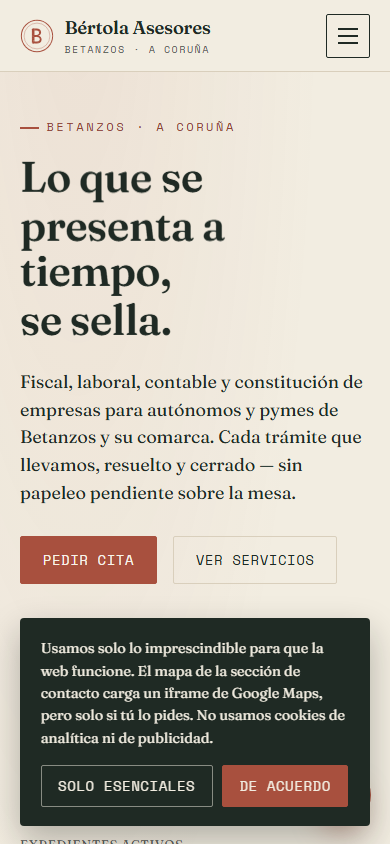
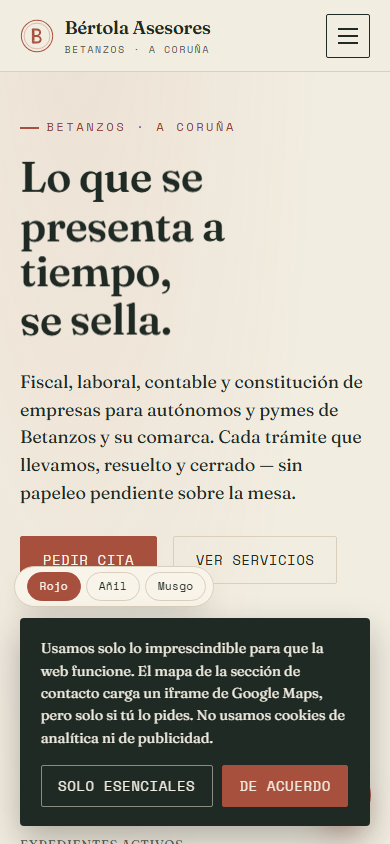
Control de paleta (demostración): tres colores en vivo mientras el cliente decide
Añade el mando estándar de PLIEGO §5 a esta plantilla: una píldora
flotante (Rojo/Añil/Musgo) que cambia --rojo/--rojo-texto/--rojo-oscuro
en vivo, sin recargar, con persistencia en localStorage y sin salto de
color al recargar. Nace de que un cliente real (Dourado & Fernández)
rechazó el verde de su sitio en una reunión; aquí, sin cliente real, se
suma igualmente para que cualquier futuro cliente pueda probar colores
delante de la pantalla.

Añil y Musgo se calibraron por luminancia relativa (fórmula sRGB), no a
ojo: 4.63-4.64:1 sobre --papel para el color de relleno (igual que el
rojo real, 4.63:1) y 5.88-5.91:1 sobre --papel para la variante de texto
(igual que el rojo real, 5.90:1). La píldora usa un --cookie-h nuevo
para no solapar el aviso de cookies mientras está abierto (no existía
ese mecanismo en esta plantilla; se tomó del ya verificado en
Dourado & Fernández).

Verificado con Playwright: 3 aserciones nuevas en scripts/verify.js
(no solapa con el aviso de cookies, un clic cambia de verdad el color
computado y persiste en localStorage, la paleta guardada se aplica
antes del primer pintado al recargar) más inspección visual manual en
escritorio y móvil con las tres paletas. De paso se detectó y corrigió
un cuello de botella no relacionado en el propio entorno de pruebas
(dos servidores http.server fantasma compartiendo el puerto 8994,
sirviendo una copia vieja del sitio), no un fallo de la plantilla.
[…]

diff --git a/js/main.js b/js/main.js
@@ -28,6 +28,15 @@
     var soloBtn = document.getElementById('cookie-config');
     if (!banner) return;
     var CLAVE = 'bertola-cookies';
+
+    /* mientras el aviso está abierto, aparta el mando de paleta hacia
+       arriba lo que mida el aviso, para que no quede tapado por él
+       (--cookie-h, ver css/style.css y el control de paleta más abajo) */
+    function ajustarOffsetCookie() {
+      var alto = banner.hidden ? 0 : banner.offsetHeight + 14;
+      html.style.setProperty('--cookie-h', alto + 'px');
+    }
+
     try {
       if (!localStorage.getItem(CLAVE)) {
         banner.hidden = false;
@@ -35,12 +44,51 @@
     } catch (e) {
       banner.hidden = false;
     }
+    requestAnimationFrame(ajustarOffsetCookie);
+    window.addEventListener('resize', ajustarOffsetCookie);
+
     function cerrar(valor) {
       banner.hidden = true;
+      ajustarOffsetCookie();
       try { localStorage.setItem(CLAVE, valor); } catch (e) {}
     }
     if (okBtn) okBtn.addEventListener('click', function () { cerrar('aceptado'); });
     if (soloBtn) soloBtn.addEventListener('click', function () { cerrar('solo-esenciales'); });
+  })();
+
+  /* ---------------------------------------------------------------------
+     Control de paleta (demostración). NO ES PARTE DEL SITIO: es un mando
+     para enseñar la misma web en tres paletas de color delante del
+     cliente mientras decide. Al entregar la web ya como oficial se borra
+     esta función, el bloque .paleta del CSS, el <div id="paleta"> del
+     HTML y la bandera del <head>.
+     ------------------------------------------------------------------- */
+  (function initPaleta() {
+    var caja = document.getElementById('paleta');
+    var botones = {
+      rojo: document.getElementById('paleta-rojo'),
+      anil: document.getElementById('paleta-anil'),
+      musgo: document.getElementById('paleta-musgo')
+    };
+    if (!caja || !botones.rojo || !botones.anil || !botones.musgo) return;
+    var CLAVE_PALETA = 'sello-paleta';
+
+    caja.hidden = false; // sin JS no se enseña: no haría nada
+
+    function pintar(nombre, guardar) {
+      html.classList.remove('paleta-anil', 'paleta-musgo');
+      if (nombre !== 'rojo') html.classList.add('paleta-' + nombre);
+      Object.keys(botones).forEach(function (k) {
+        botones[k].setAttribute('aria-pressed', String(k === nombre));
+      });
+      if (guardar) { try { localStorage.setItem(CLAVE_PALETA, nombre); } catch (e) {} }
+    }
+
+    var actual = html.classList.contains('paleta-anil') ? 'anil' : html.classList.contains('paleta-musgo') ? 'musgo' : 'rojo';
+    pintar(actual, false);
+    botones.rojo.addEventListener('click', function () { pintar('rojo', true); });
+    botones.anil.addEventListener('click', function () { pintar('anil', true); });
+    botones.musgo.addEventListener('click', function () { pintar('musgo', true); });
   })();
 
   /* ---------------------------------------------------------------------

diff --git a/index.html b/index.html
@@ -45,6 +45,16 @@
 })();
 </script>
 <noscript><style>.cortina{ display:none !important; }</style></noscript>
+<script>
+/* Paleta elegida en el control de maqueta. Se resuelve aquí, antes de
+   pintar, o la página arrancaría en una paleta y saltaría a otra.
+   CONTROL DE DEMOSTRACIÓN: ver README, "El control de paleta", para
+   quitarlo al entregar la web ya como oficial. */
+try {
+  var p = localStorage.getItem('sello-paleta');
+  if (p === 'anil' || p === 'musgo') document.documentElement.classList.add('paleta-' + p);
+} catch (e) {}
+</script>
 </head>
 <body>
 <a class="skip-link" href="#contenido">Saltar al contenido</a>
@@ -529,6 +539,21 @@
 <a class="wa-flotante btn-mag" data-wa href="https://wa.me/34611000045?text=Hola%2C%20querr%C3%ADa%20pedir%20cita%20con%20B%C3%A9rtola%20Asesores" aria-label="Escribir por WhatsApp a Bértola Asesores">
   <svg viewBox="0 0 32 32" aria-hidden="true"><path fill="currentColor" d="M16.02 3C9.4 3 4 8.4 4 15.02c0 2.23.6 4.32 1.65 6.12L4 29l8.06-1.6a12 12 0 0 0 3.96.68c6.63 0 12.02-5.4 12.02-12.06C28.04 8.4 22.65 3 16.02 3zm0 21.86c-1.96 0-3.78-.55-5.33-1.5l-.38-.22-4.24.84.86-4.14-.25-.4a9.9 9.9 0 0 1-1.5-5.42c0-5.5 4.5-9.98 10-9.98s9.98 4.48 9.98 9.98-4.48 9.84-9.14 9.84zm5.46-7.46c-.3-.15-1.77-.87-2.05-.97-.28-.1-.48-.15-.68.15-.2.3-.78.97-.96 1.17-.18.2-.35.22-.65.07-.3-.15-1.26-.46-2.4-1.47-.9-.8-1.5-1.79-1.68-2.09-.18-.3-.02-.46.13-.6.14-.14.3-.35.45-.53.15-.18.2-.3.3-.5.1-.2.05-.38-.02-.53-.07-.15-.68-1.63-.93-2.24-.24-.58-.49-.5-.68-.5h-.58c-.2 0-.53.07-.8.38-.28.3-1.05 1.02-1.05 2.5s1.08 2.9 1.23 3.1c.15.2 2.13 3.25 5.16 4.55.72.31 1.28.5 1.72.63.72.23 1.38.2 1.9.12.58-.09 1.77-.72 2.02-1.42.25-.7.25-1.3.18-1.42-.07-.13-.27-.2-.57-.35z"/></svg>
 </a>
+
+<!-- ===================== CONTROL DE PALETA =====================
+     Esto NO es parte del sitio: es un mando para enseñar la misma web con
+     tres paletas de color distintas delante del cliente, mientras decide.
+     Al entregar la web ya como oficial se borra este bloque, el bloque
+     .paleta del CSS, la función initPaleta() de main.js y la bandera del
+     <head>. Viene con [hidden]: sin JS no aparece, porque no haría nada. -->
+<div class="paleta" id="paleta" hidden>
+  <p class="paleta-rotulo">Paleta</p>
+  <div class="paleta-botones" role="group" aria-label="Paleta de color de la maqueta">
+    <button type="button" id="paleta-rojo" aria-pressed="true">Rojo</button>
+    <button type="button" id="paleta-anil" aria-pressed="false">Añil</button>
+    <button type="button" id="paleta-musgo" aria-pressed="false">Musgo</button>
+  </div>
+</div>
 
 <div class="cookie-banner" id="cookie-banner" hidden>
   <p>Usamos solo lo imprescindible para que la web funcione. El mapa de la sección de contacto carga un iframe de Google Maps, pero solo si tú lo pides. No usamos cookies de analítica ni de publicidad.</p>

diff --git a/css/style.css b/css/style.css
@@ -16,6 +16,7 @@
   --rojo-texto:#8F4435;  /* variante de texto: 5.90:1 sobre --papel */
   --rojo-oscuro:#7C3A2B;
   --foco:#1F2A24;
+  --cookie-h:0px;        /* alto del aviso de cookies mientras está abierto; lo fija main.js */
 
   --ff-display:'Fraunces', Georgia, serif;
   --ff-mono:'Space Mono', 'Courier New', monospace;
@@ -37,6 +38,22 @@
   --ease-expo: cubic-bezier(.16, 1, .3, 1);
 
   color-scheme: light;
+}
+
+/* -------------------------- Control de paleta --------------------------
+   BLOQUE DE DEMOSTRACIÓN: se borra entero al entregar la web ya como
+   oficial (ver README, "El control de paleta"). Solo cambia el rojo de
+   marca — el papel y la tinta son los mismos en las tres, y el sello del
+   logo real no cambia de color con el mando. */
+html.paleta-anil {
+  --rojo:#4368B4;        /* 4.64:1 sobre papel, 4.93:1 sobre crema */
+  --rojo-texto:#385999;  /* 5.88:1 sobre papel */
+  --rojo-oscuro:#304C82;
+}
+html.paleta-musgo {
+  --rojo:#41763D;        /* 4.63:1 sobre papel, 4.92:1 sobre crema */
+  --rojo-texto:#386434;  /* 5.91:1 sobre papel */
+  --rojo-oscuro:#2D512A;
 }
 
 /* ---------- Reset ---------- */
@@ -446,6 +463,32 @@ html.motion-off .cinta-grupo{ animation:none; }
 }
 .wa-flotante:hover{ background:var(--rojo-oscuro); }
 .wa-flotante svg{ width:28px; height:28px; }
+
+/* ---------- Control de paleta (demostración, ver nota arriba en :root) ---------- */
+.paleta{ display:none; }
+.paleta:not([hidden]){
+  display:flex; position:fixed; z-index:90; left:1.2rem; bottom:calc(1.2rem + var(--cookie-h));
+  align-items:center; gap:.6rem; background:var(--crema); border:1px solid var(--linea);
+  border-radius:999px; padding:.4rem .5rem .4rem .9rem;
+  box-shadow:0 14px 30px -12px rgba(31,42,36,.28);
+  transition:bottom .3s ease;
+}
+.paleta-rotulo{
+  margin:0; font-family:var(--ff-mono); font-size:.62rem; letter-spacing:.14em;
+  text-transform:uppercase; color:var(--muted);
+}
+.paleta-botones{ display:flex; gap:.3rem; }
+.paleta-botones button{
+  font-family:var(--ff-mono); font-size:.68rem; letter-spacing:.04em; cursor:pointer;
+  background:transparent; color:var(--tinta); border:1px solid var(--linea); border-radius:999px;
+  padding:.34rem .75rem; transition:background-color .2s, color .2s, border-color .2s;
+}
+.paleta-botones button:hover{ border-color:var(--tinta); }
+.paleta-botones button[aria-pressed="true"]{ background:var(--rojo); color:var(--crema); border-color:var(--rojo); }
+@media (max-width:480px){
+  .paleta:not([hidden]){ left:.9rem; bottom:calc(.9rem + var(--cookie-h)); padding:.3rem .4rem .3rem .7rem; }
+  .paleta-rotulo{ display:none; }
+}
 
 /* ---------- Página legal / 404 ---------- */
 .pagina-simple{ padding-block:calc(var(--space-section) * 1.2) var(--space-section); }

diff --git a/scripts/verify.js b/scripts/verify.js
@@ -179,6 +179,39 @@ function attachLoggers(page, bucket, etiqueta) {
     await ctx.close();
   }
 
+  /* ---------------- 7. Control de paleta (demostración) ---------------- */
+  {
+    const ctx = await browser.newContext({ viewport: { width: 1440, height: 900 } });
+    const page = await ctx.newPage();
+    attachLoggers(page, informe, 'paleta');
+    await page.goto(BASE, { waitUntil: 'networkidle' });
+    await page.waitForTimeout(800); // aviso de cookies visible en este contexto limpio
+
+    const solapaConCookies = await page.evaluate(() => {
+      const p = document.getElementById('paleta').getBoundingClientRect();
+      const c = document.getElementById('cookie-banner').getBoundingClientRect();
+      return !(p.right < c.left || p.left > c.right || p.bottom < c.top || p.top > c.bottom);
+    });
+    informe.comprobaciones['paleta-solapa-cookies'] = solapaConCookies;
+    await page.screenshot({ path: path.join(OUT, 'escritorio-07-paleta-con-cookies.png') });
+
+    const colorRojo = await page.evaluate(() => getComputedStyle(document.querySelector('.btn-rojo')).backgroundColor);
+    await page.click('#paleta-anil');
+    await page.waitForTimeout(200);
+    const colorAnil = await page.evaluate(() => getComputedStyle(document.querySelector('.btn-rojo')).backgroundColor);
+    const guardadoPaleta = await page.evaluate(() => localStorage.getItem('sello-paleta'));
+    informe.comprobaciones['paleta-cambia-color'] = { colorRojo, colorAnil, cambia: colorRojo !== colorAnil, guardadoPaleta };
+    await page.screenshot({ path: path.join(OUT, 'escritorio-07-paleta-anil.png') });
+
+    // recarga: la paleta guardada debe aplicarse antes del primer paint, sin salto
+    await page.reload({ waitUntil: 'domcontentloaded' });
+    const claseInmediata = await page.evaluate(() => document.documentElement.classList.contains('paleta-anil'));
+    informe.comprobaciones['paleta-sin-flash-al-recargar'] = claseInmediata;
+    await page.waitForLoadState('networkidle');
+    await page.click('#paleta-rojo'); // deja el sitio en el color real de la marca
+    await ctx.close();
+  }
+
   /* ---------------- 8. Sin marcadores pendientes ---------------- */
   {
     const ctx = await browser.newContext();

diff --git a/README.md b/README.md
@@ -181,6 +181,44 @@ fijo, que sí da una X limpia.
    `node scripts/generate_icons.js` (necesita un servidor local sirviendo
    el repo, ver el propio script).
 
+## El control de paleta (demostración, quitar antes de dar la web por oficial)
+
+Desde el 21-09-2026, PLIEGO §5 («Control de paleta») exige un mando de
+demostración en toda la biblioteca: una píldora flotante, abajo a la
+izquierda, que deja enseñar la misma maqueta con tres colores de marca
+distintos delante del cliente mientras decide, sin tocar CSS en directo.
+Nació porque un cliente real (Dourado & Fernández) rechazó el verde de su
+sitio en una reunión — aquí no hay cliente real, pero la plantilla lleva
+el mismo mando para que cualquier futuro cliente pueda probarlo.
+
+Las tres paletas (solo cambia el rojo de marca; papel y tinta son
+idénticos en las tres):
+
+- **Rojo** (por defecto): `--rojo:#A8503E` — el rojo de sello/tampón, el
+  real del diseño.
+- **Añil**: `--rojo:#4368B4` — azul índigo de tinta oficial.
+- **Musgo**: `--rojo:#41763D` — verde musgo, también plausible como tinta
+  de sello.
+
+La paleta elegida se guarda en `localStorage` (`sello-paleta`) y se
+reaplica en la carga siguiente mediante un script bloqueante en el
+`<head>`, antes del primer pintado — así no hay salto de un color a otro.
+
+**Para quitarlo al entregar la web ya como oficial**, borrar estas 4
+piezas (todas están marcadas con el mismo comentario "CONTROL DE
+DEMOSTRACIÓN" / "BLOQUE DE DEMOSTRACIÓN"):
+
+1. En `index.html`: el `<script>` del `<head>` que lee `sello-paleta` de
+   `localStorage` (justo antes de `</head>`).
+2. En `index.html`: el bloque `<div class="paleta" id="paleta" hidden>…`
+   (justo después del botón flotante de WhatsApp).
+3. En `css/style.css`: el bloque `html.paleta-anil { … } html.paleta-musgo
+   { … }` (justo después de que cierra `:root`) y el bloque `.paleta { … }`
+   / `.paleta-botones { … }` (junto a `.wa-flotante`). También se puede
+   quitar `--cookie-h` de `:root` si nada más lo usa ya.
+4. En `js/main.js`: la función `initPaleta()` completa, dentro de la
+   sección 1 (justo después de `cookies()`).
+
 ## Verificación (PLIEGO §7)
 
 Ejecutada con Playwright (Chromium) contra un servidor estático local.
@@ -207,6 +245,12 @@ Ejecutada con Playwright (Chromium) contra un servidor estático local.
   y se cierra.
 - **Mapa**: 0 iframes antes de pulsar «Mostrar mapa», 1 después, apuntando
   a la dirección ficticia, sin API key.
+- **Control de paleta** (demostración, ver sección propia arriba): la
+  píldora no solapa el aviso de cookies mientras está abierto, un clic en
+  «Añil» cambia de verdad el color computado (`getComputedStyle`) del
+  botón de marca y guarda `sello-paleta` en `localStorage`, y al recargar
+  la clase `paleta-anil` ya está puesta en `document.documentElement`
+  justo tras `domcontentloaded` — sin salto de un color a otro.
 - **Sin marcadores pendientes**: se buscó `[PENDIENTE]`, `TODO`, `Lorem
   ipsum` y `NUMERO-PENDIENTE` en el texto renderizado — ninguno presente.
 - **Repaso del §1**: nombre comprobado en la web antes de fijarlo (ver
